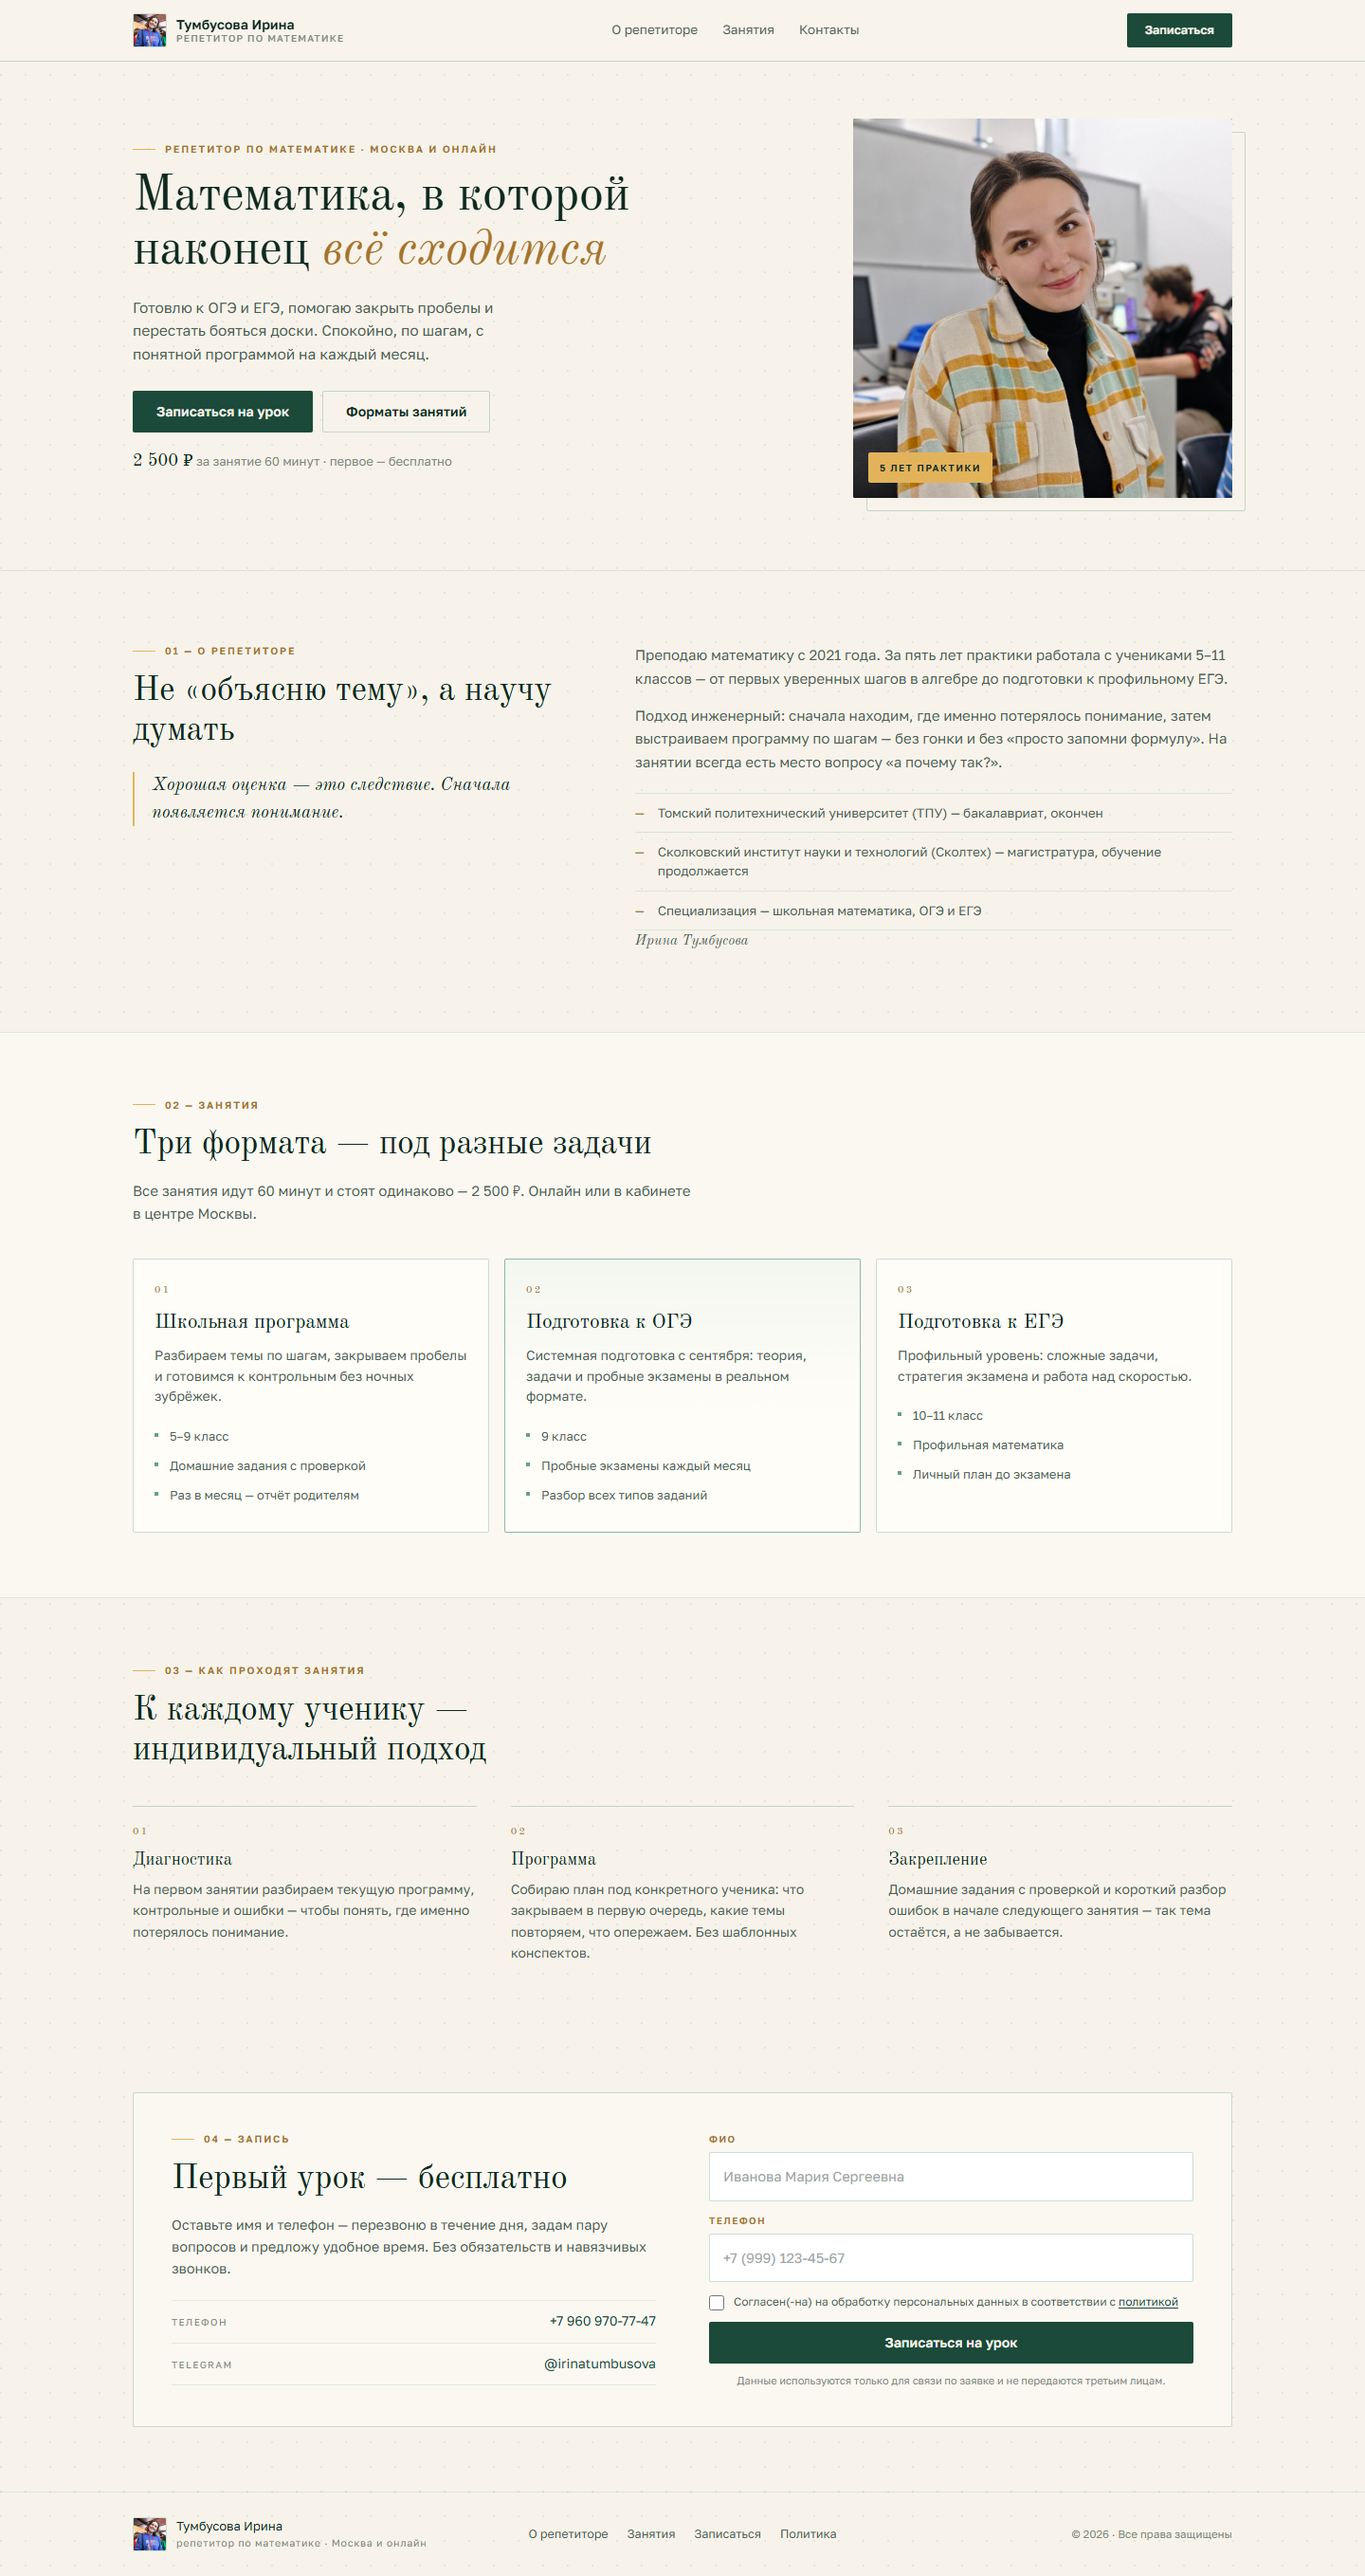
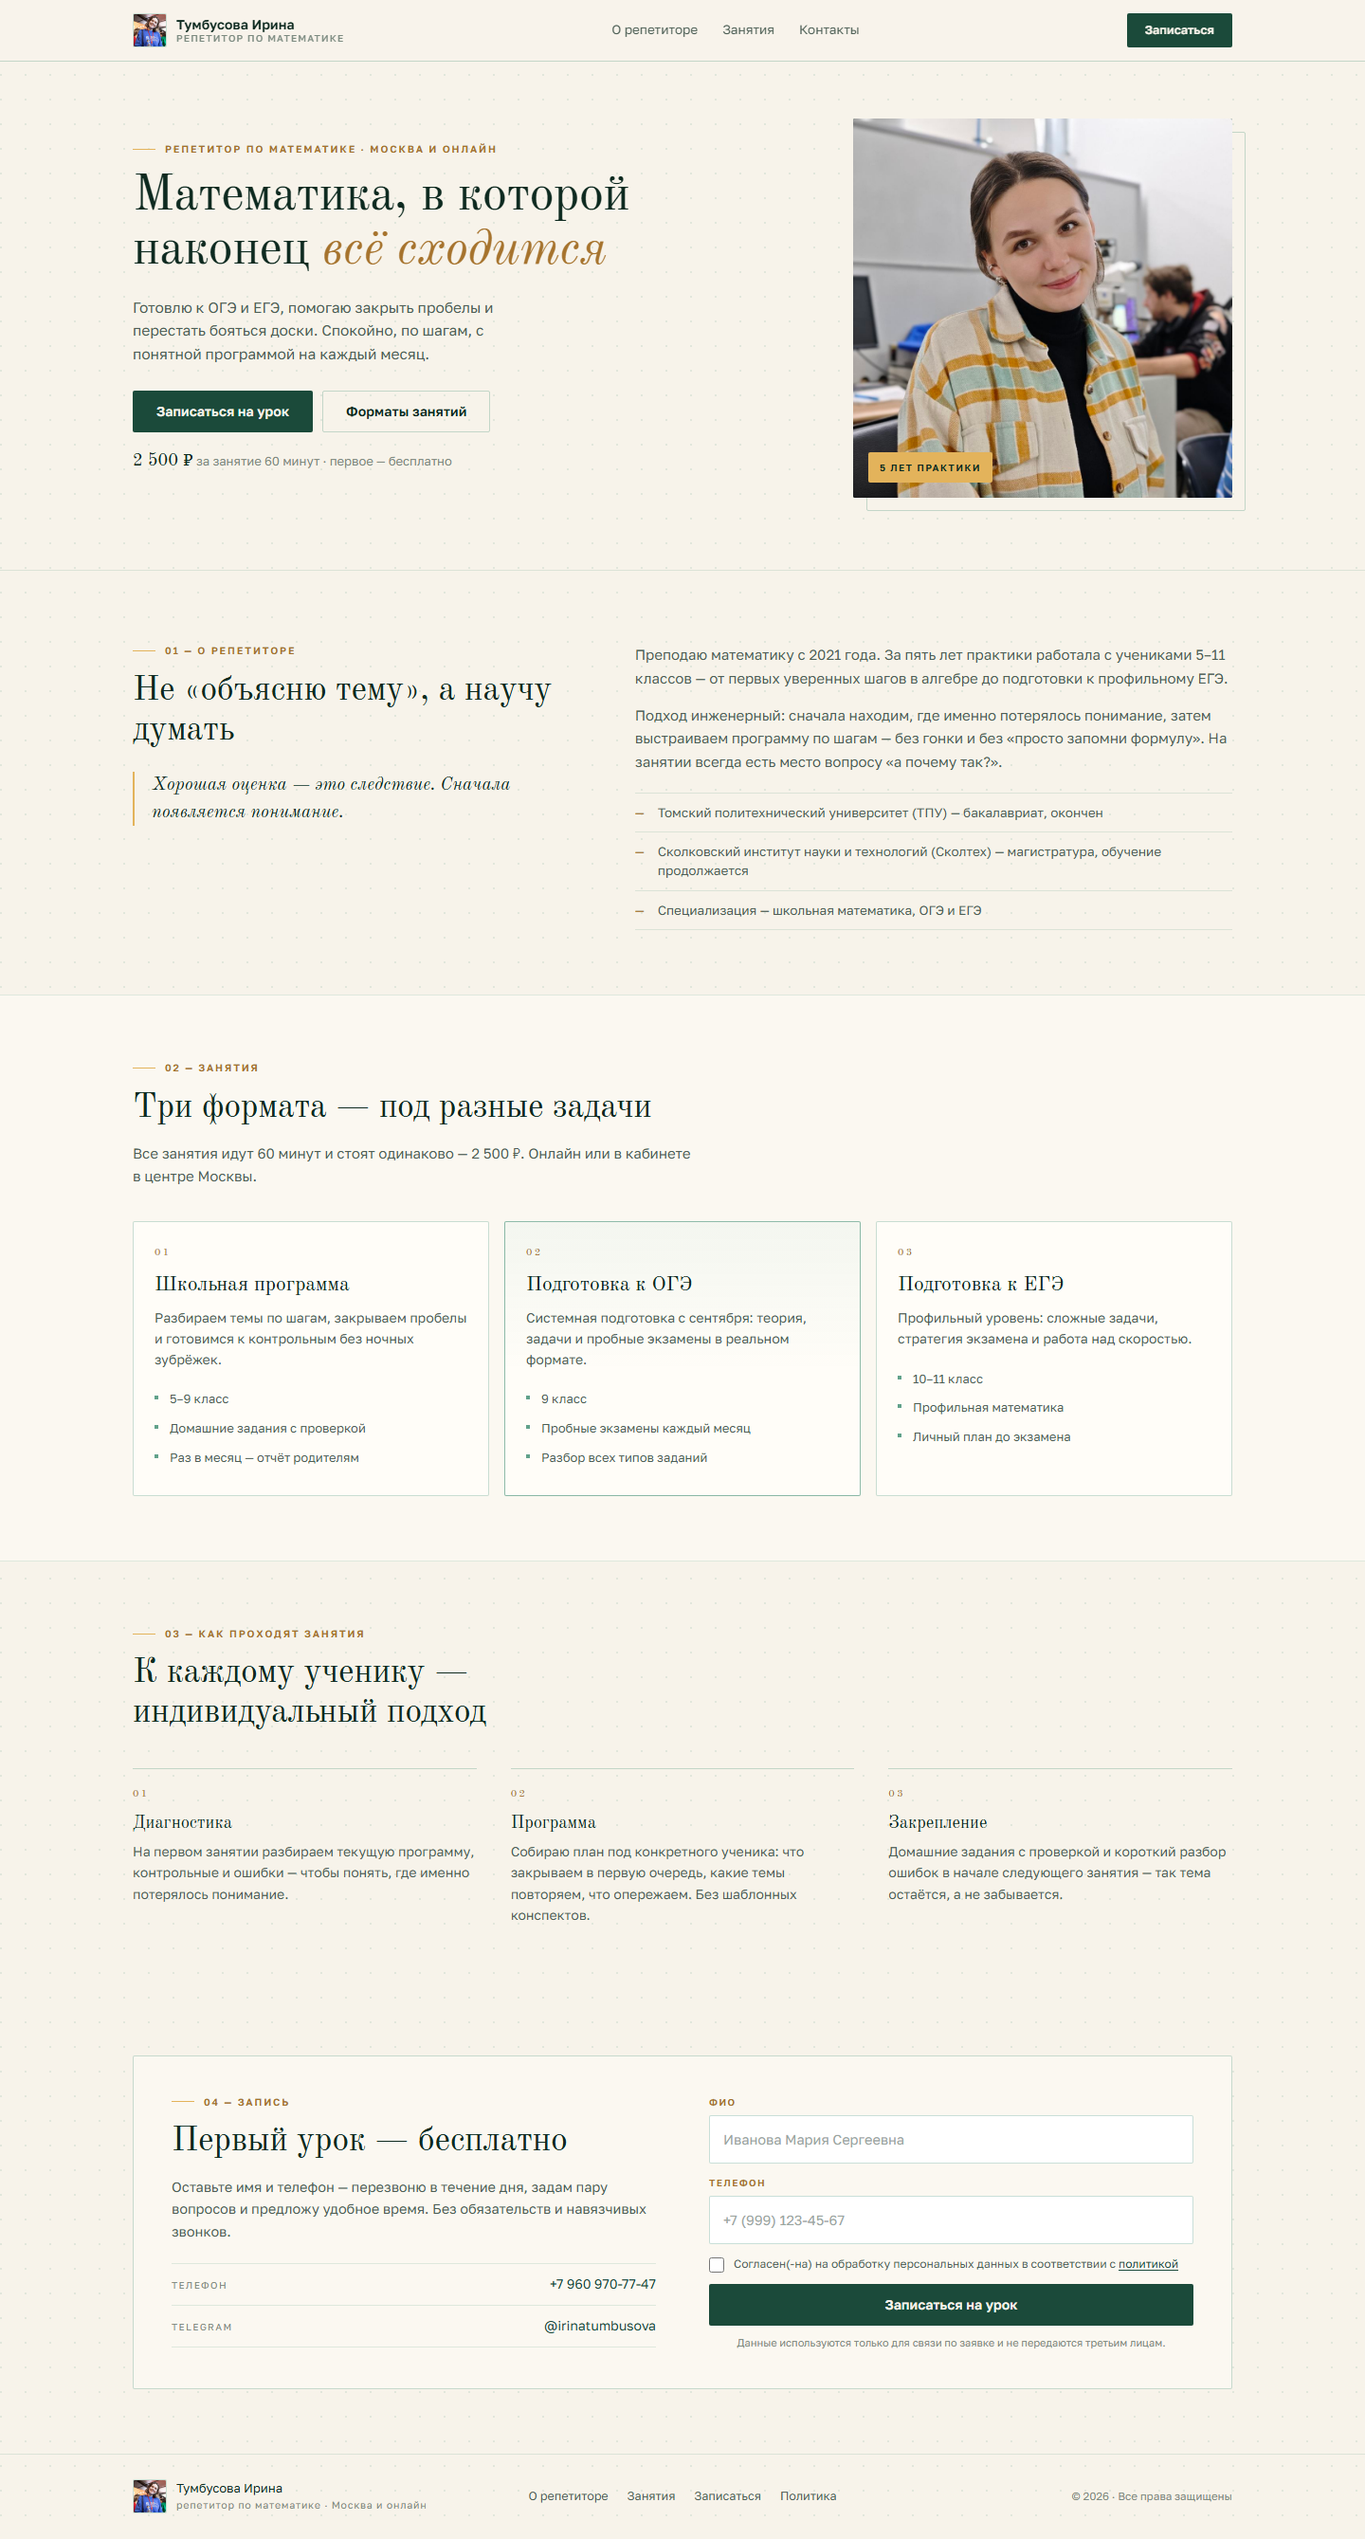
Убрать подпись в блоке «О репетиторе»

diff --git a/index.html b/index.html
@@ -124,8 +124,6 @@
             <li>Сколковский институт науки и технологий (Сколтех) — магистратура, обучение продолжается</li>
             <li>Специализация — школьная математика, ОГЭ и ЕГЭ</li>
           </ul>
-
-          <p class="signature">Ирина Тумбусова</p>
         </div>
       </div>
     </section>

diff --git a/styles.css b/styles.css
@@ -451,14 +451,6 @@ a:focus-visible {
   color: var(--gold-dark);
 }
 
-.signature {
-  margin: 20px 0 0;
-  font-family: var(--font-display);
-  font-style: italic;
-  font-size: 1.25rem;
-  color: var(--gold-dark);
-}
-
 .quote {
   margin: 22px 0 0;
   padding-left: 18px;
